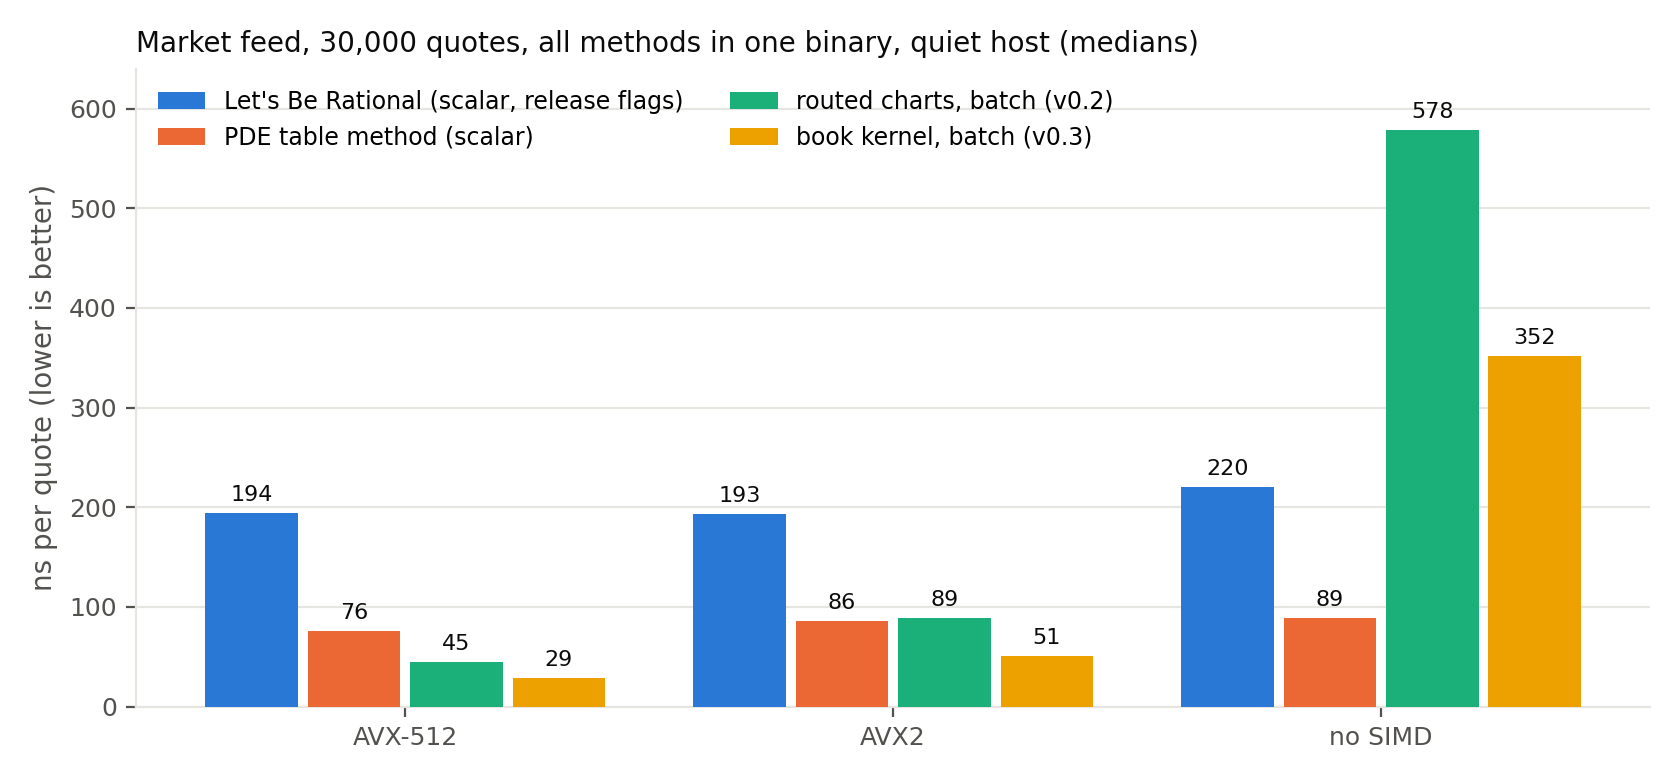
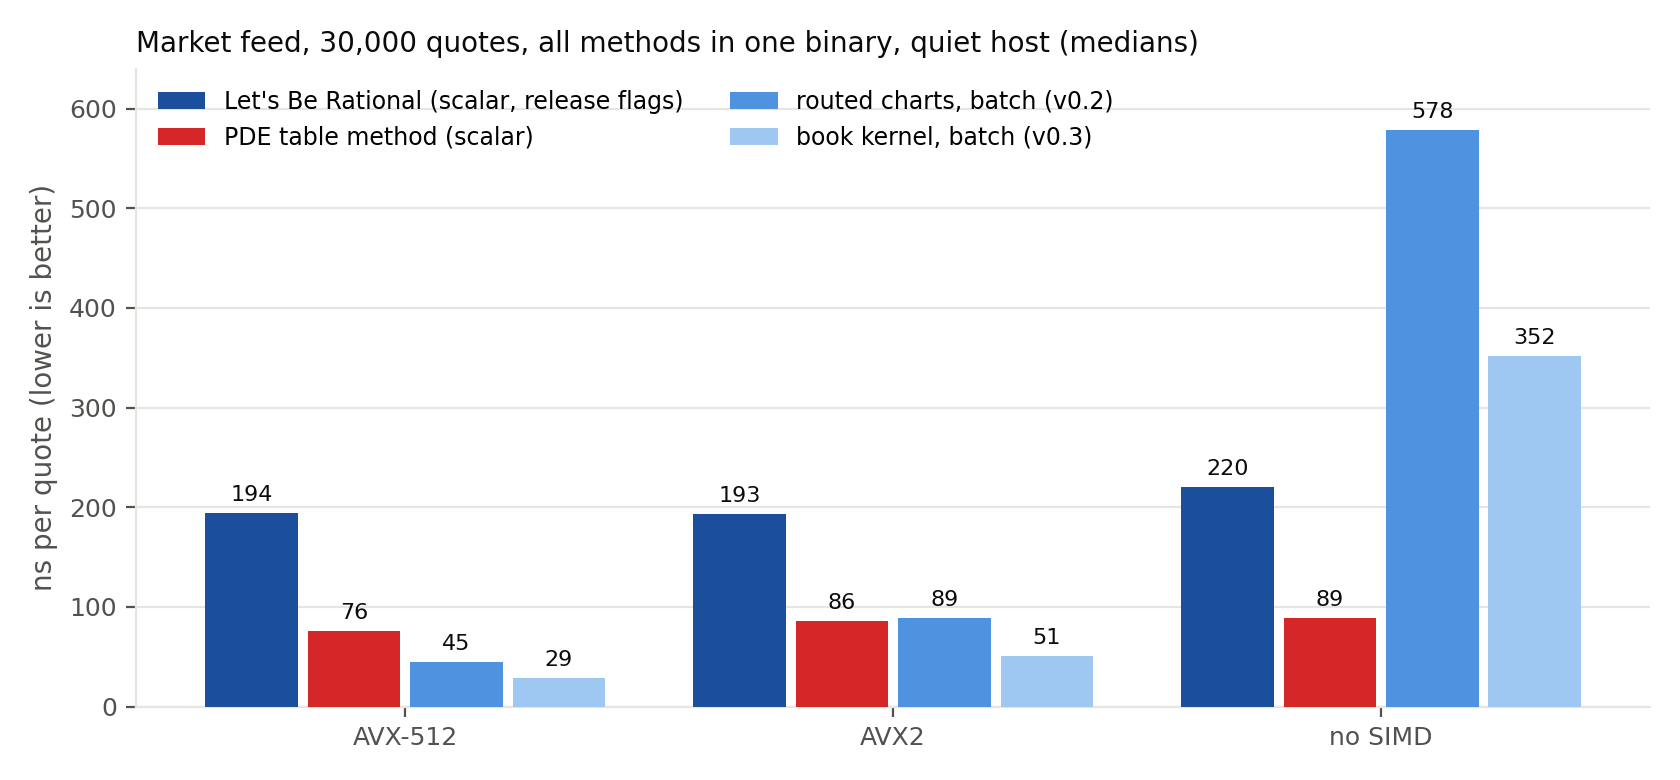
README: latency figures in the paper's colour scheme, GPU chart vertical

diff --git a/reproduce/book/gen/make_readme_figures.py b/reproduce/book/gen/make_readme_figures.py
@@ -18,7 +18,8 @@ OUT = Path(__file__).resolve().parents[3] / "docs" / "figures"
 OUT.mkdir(parents=True, exist_ok=True)
 
 INK, INK2, GRID = "#0b0b0b", "#52514e", "#e6e5e1"
-C_LBR, C_PDE, C_ROUTED, C_BOOK = "#2a78d6", "#eb6834", "#1baf7a", "#eda100"
+# blue shades = machine precision on the feed, red = not (the PDE table method); same as the paper
+C_LBR, C_PDE, C_ROUTED, C_BOOK = "#1b4f9c", "#d62728", "#4f93e0", "#9ec7f2"
 
 def style(ax):
     for s in ("top", "right"):
@@ -55,32 +56,32 @@ ax.legend(frameon=False, fontsize=8.5, loc="upper left", ncol=2)
 fig.tight_layout()
 fig.savefig(OUT / "cpu_one_binary.png"); plt.close(fig)
 
-# ---------------------------------------------------------------- GPU
+# ---------------------------------------------------------------- GPU (vertical, like the CPU figure)
 rows = [  # label, ns/quote, color
-    ("PDE table method, OpenCL, with transfers (its convention)", 7.68, C_PDE),
-    ("PDE table method, kernels + readback",                      4.93, C_PDE),
-    ("book kernel, with uploads and readback",                     1.12, C_BOOK),
-    ("routed charts, full book, bucket-ordered (v0.2)",            0.078, C_ROUTED),
-    ("book kernel, full feed, file order",                         0.072, C_BOOK),
-    ("book kernel, full feed, sorted by a",                        0.032, C_BOOK),
-    ("recurrence kernel, NEAR tile",                               0.021, C_BOOK),
+    ("PDE, OpenCL,\nwith transfers\n(its convention)", 7.68, C_PDE),
+    ("PDE, OpenCL,\nkernels +\nreadback",           4.93, C_PDE),
+    ("book kernel,\nwith uploads\nand readback",                    1.12, C_BOOK),
+    ("routed charts (v0.2),\nfull book,\nbucket-ordered",           0.078, C_ROUTED),
+    ("book kernel,\nfull feed,\nfile order",                        0.072, C_BOOK),
+    ("book kernel,\nfull feed,\nsorted by a",                       0.032, C_BOOK),
+    ("recurrence kernel,\nNEAR tile",                               0.021, C_BOOK),
 ]
-fig, ax = plt.subplots(figsize=(9.0, 3.8), dpi=200)
-ys = list(range(len(rows)))[::-1]
-for y, (lab, v, col) in zip(ys, rows):
-    ax.barh(y, v, color=col, height=0.62, zorder=3)
-    ax.text(v * 1.12, y, f"{v:g}", va="center", ha="left", fontsize=8.5, color=INK)
-ax.set_yticks(ys); ax.set_yticklabels([r[0] for r in rows], fontsize=8.5, color=INK)
-ax.set_xscale("log"); ax.set_xlim(0.012, 30)
-ax.set_xlabel("ns per quote (log scale), NVIDIA H100 PCIe, median of 300 passes")
-ax.xaxis.grid(True, color=GRID, zorder=0, which="major"); ax.set_axisbelow(True)
+fig, ax = plt.subplots(figsize=(9.0, 4.2), dpi=200)
+xs = range(len(rows))
+for x, (lab, v, col) in zip(xs, rows):
+    ax.bar(x, v, color=col, width=0.62, zorder=3)
+    ax.text(x, v * 1.18, f"{v:g}", ha="center", va="bottom", fontsize=8.5, color=INK)
+ax.set_xticks(list(xs)); ax.set_xticklabels([r[0] for r in rows], fontsize=8, color=INK)
+ax.set_yscale("log"); ax.set_ylim(0.012, 30)
+ax.set_ylabel("ns per quote (log scale, lower is better)")
+ax.yaxis.grid(True, color=GRID, zorder=0, which="major"); ax.set_axisbelow(True)
 style(ax)
-ax.set_title("GPU throughput, kernel-resident and with host transfers",
+ax.set_title("GPU throughput, NVIDIA H100 PCIe, median of 300 passes, kernel-resident and with host transfers",
              fontsize=9.5, color=INK, loc="left")
 from matplotlib.patches import Patch
 ax.legend(handles=[Patch(color=C_BOOK, label="book kernel (v0.3)"), Patch(color=C_ROUTED, label="routed charts (v0.2)"),
                    Patch(color=C_PDE, label="PDE table method (authors' code)")],
-          frameon=False, fontsize=8.5, loc="lower right")
+          frameon=False, fontsize=8.5, loc="upper right")
 fig.tight_layout()
 fig.savefig(OUT / "gpu_book_kernel.png"); plt.close(fig)
 print("wrote", OUT / "cpu_one_binary.png", "and", OUT / "gpu_book_kernel.png")

diff --git a/README.md b/README.md
@@ -99,6 +99,8 @@ authors' sources at its compile script's flags. Nanoseconds per quote, medians:
 
 ![All methods in one binary on the market feed, per instruction set](docs/figures/cpu_one_binary.png)
 
+In this figure and the GPU one below, the blue shades mark the methods that hold machine precision on the feed (Let's Be Rational, the routed charts, the book kernel) and red marks the PDE table method, whose worst error on the same feed is 1.2e-5.
+
 The book kernel's batch path is **6.7× (AVX-512) and 3.8× (AVX2) the reference's rate** and
 2.6× the PDE method's scalar evaluation; its scalar entry is 1.6× the reference on the
 vector-capable builds. Branch by branch on region-filtered tiles (`NEAR` / `FAR` / `WING`) the
